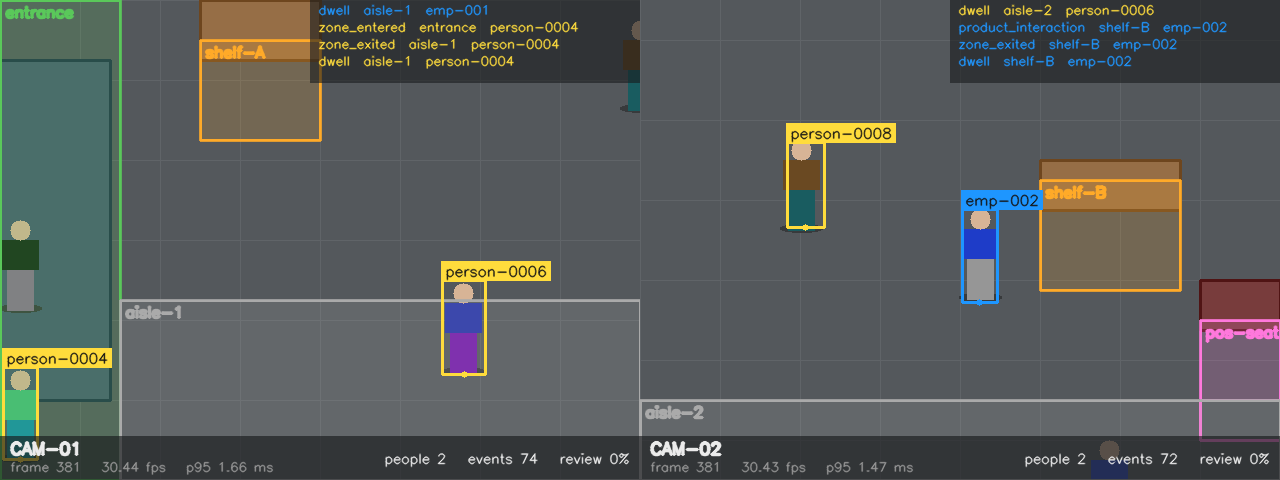
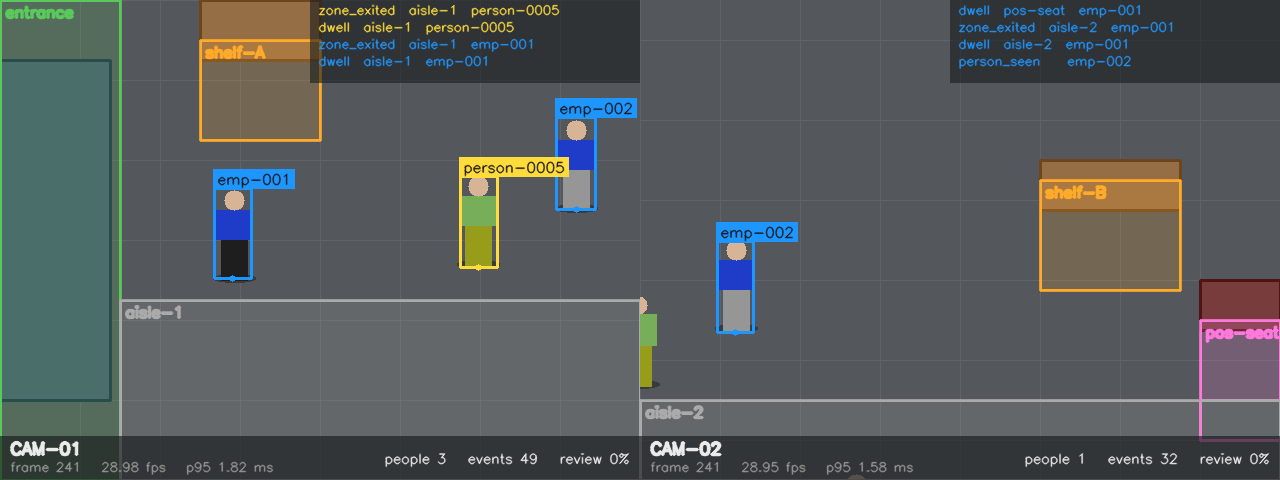
Refresh dashboard screenshots and tidy overlay layout

diff --git a/src/retail_vision/simulation/render.py b/src/retail_vision/simulation/render.py
@@ -171,8 +171,8 @@ def draw_dashboard(
         y = y0 + 24 + i * 22
         cv2.circle(board, (x2 + 6, y - 5), 5, EMPLOYEE_COLOR, -1)
         seated = f"seated {e['seated_s']:.0f}s" if e["seated_s"] else ""
-        _text(board, f"{e['employee_id']}  {e['cameras']} cams  {e['zones']} zones", (x2 + 20, y))
-        _text(board, seated, (x2 + 215, y), 0.46, MUTED)
+        row = f"{e['employee_id']}  {e['cameras']} cams  {e['zones']} zones  {seated}"
+        _text(board, row, (x2 + 20, y), 0.42)
     if eval_report:
         y = y0 + 92
         _text(board, "IDENTITY QUALITY vs GROUND TRUTH", (x2, y), 0.5)
